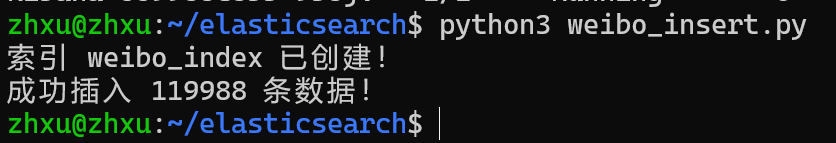
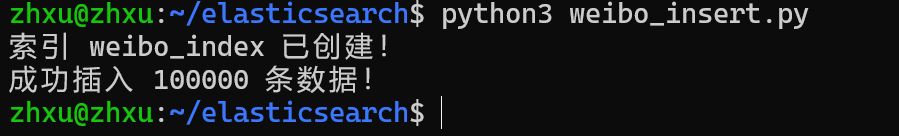
els

Changed region(s): [[0.0, 0.0, 0.9641, 0.9706], [0.1555, 0.0, 0.1866, 0.0294]]

diff --git a/elasticsearch_kibana.html b/elasticsearch_kibana.html
@@ -432,7 +432,7 @@ pip3 --version
 <img src="static/assets/img/elasticsearch_kibana/elk_weibo1.png" alt="elk_weibo1" style="width: 100%; height: auto;">
 
                 <ul>
-                    <li>然后我们回到 Dev Tools 控制台中，查询该索引下的数据条数，可以看到已经有了119988条数据</li>
+                    <li>然后我们回到 Dev Tools 控制台中，查询该索引下的数据条数，可以看到已经有了100000条数据</li>
                 </ul>
                 <pre><code>GET /weibo_index/_count?pretty
 </code></pre>
@@ -440,13 +440,13 @@ pip3 --version
 
 
                 <ul>
-                    <li>接着进一步使用elasticsearch的文本检索功能，搜索整个微博数据文件中带有"爱国"字段的内容</li>
+                    <li>接着进一步使用elasticsearch的文本检索功能，搜索整个微博数据文件中带有"快乐"字段的内容</li>
                 </ul>
                 <pre><code>GET /weibo_index/_search?pretty
 {
   "query": {
     "match": {
-      "review": "爱国"
+      "username": "快乐"
     }
   }
 }
